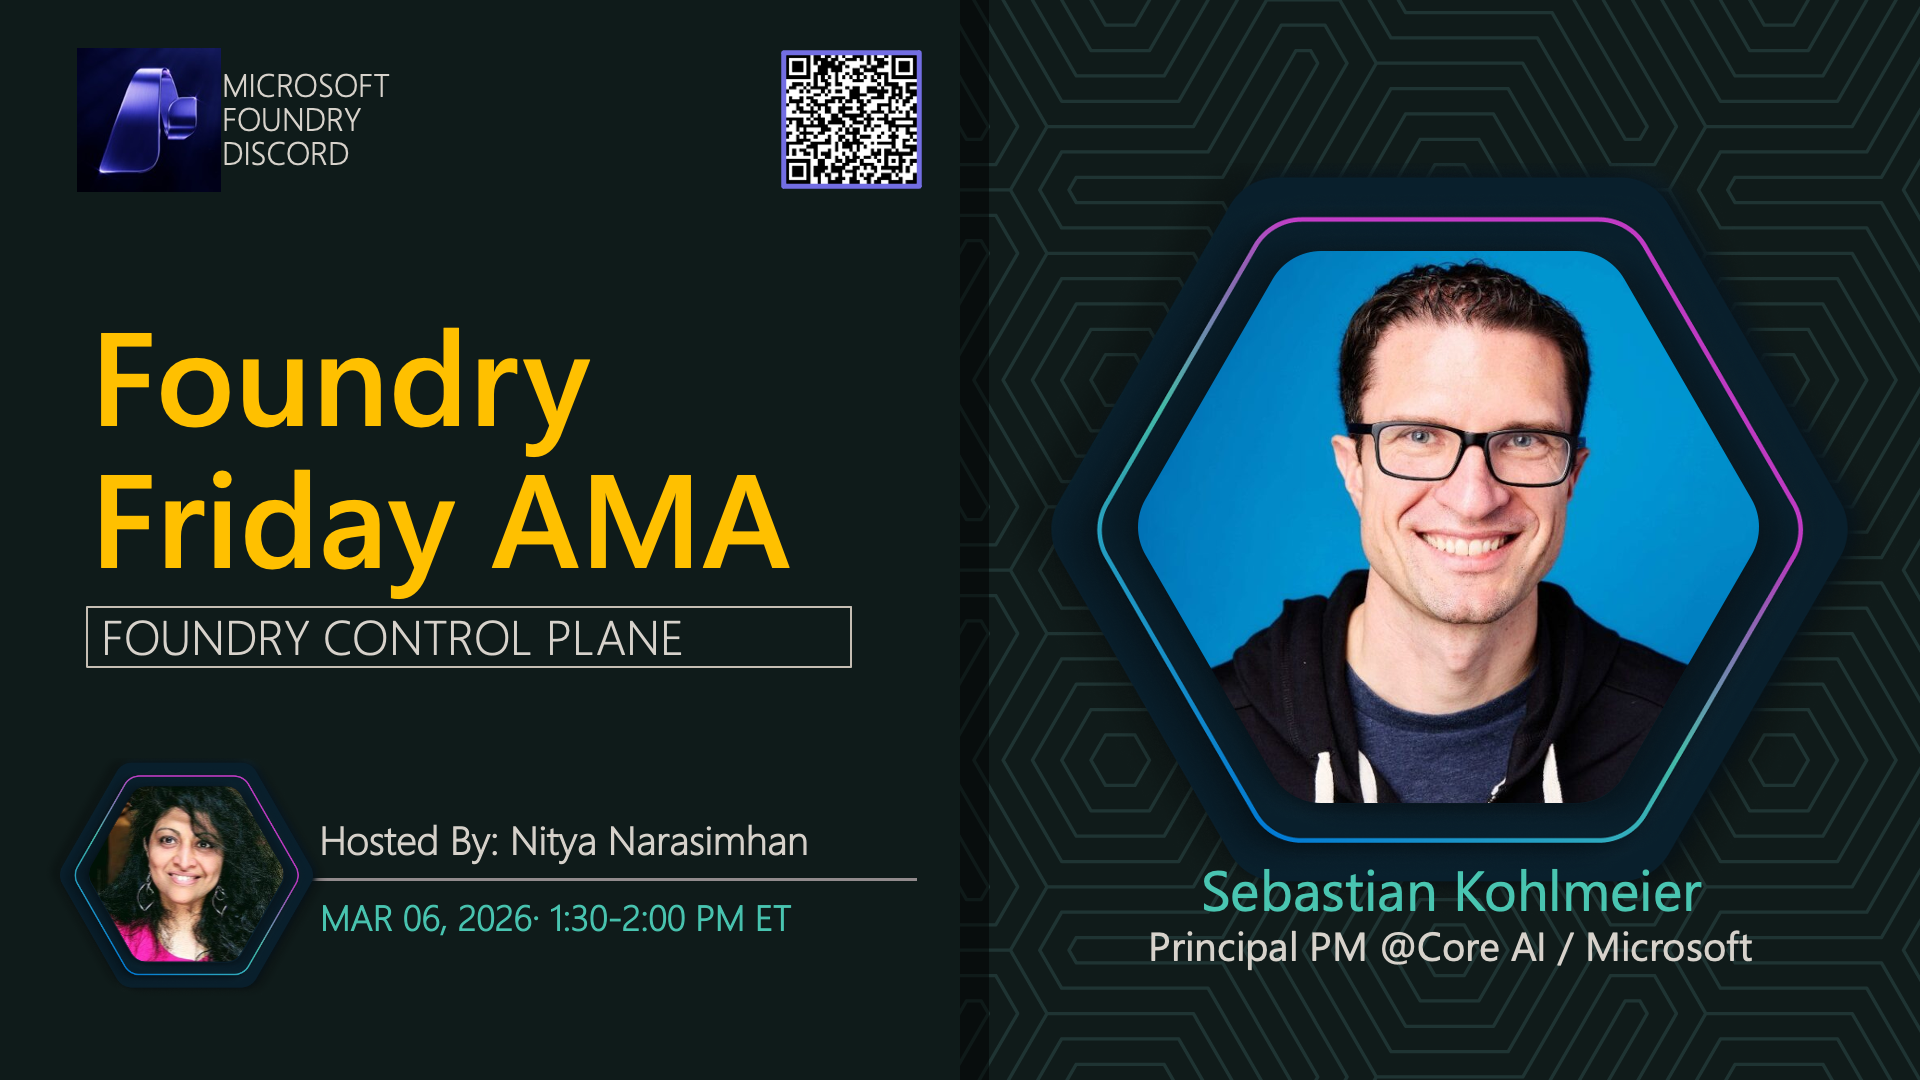
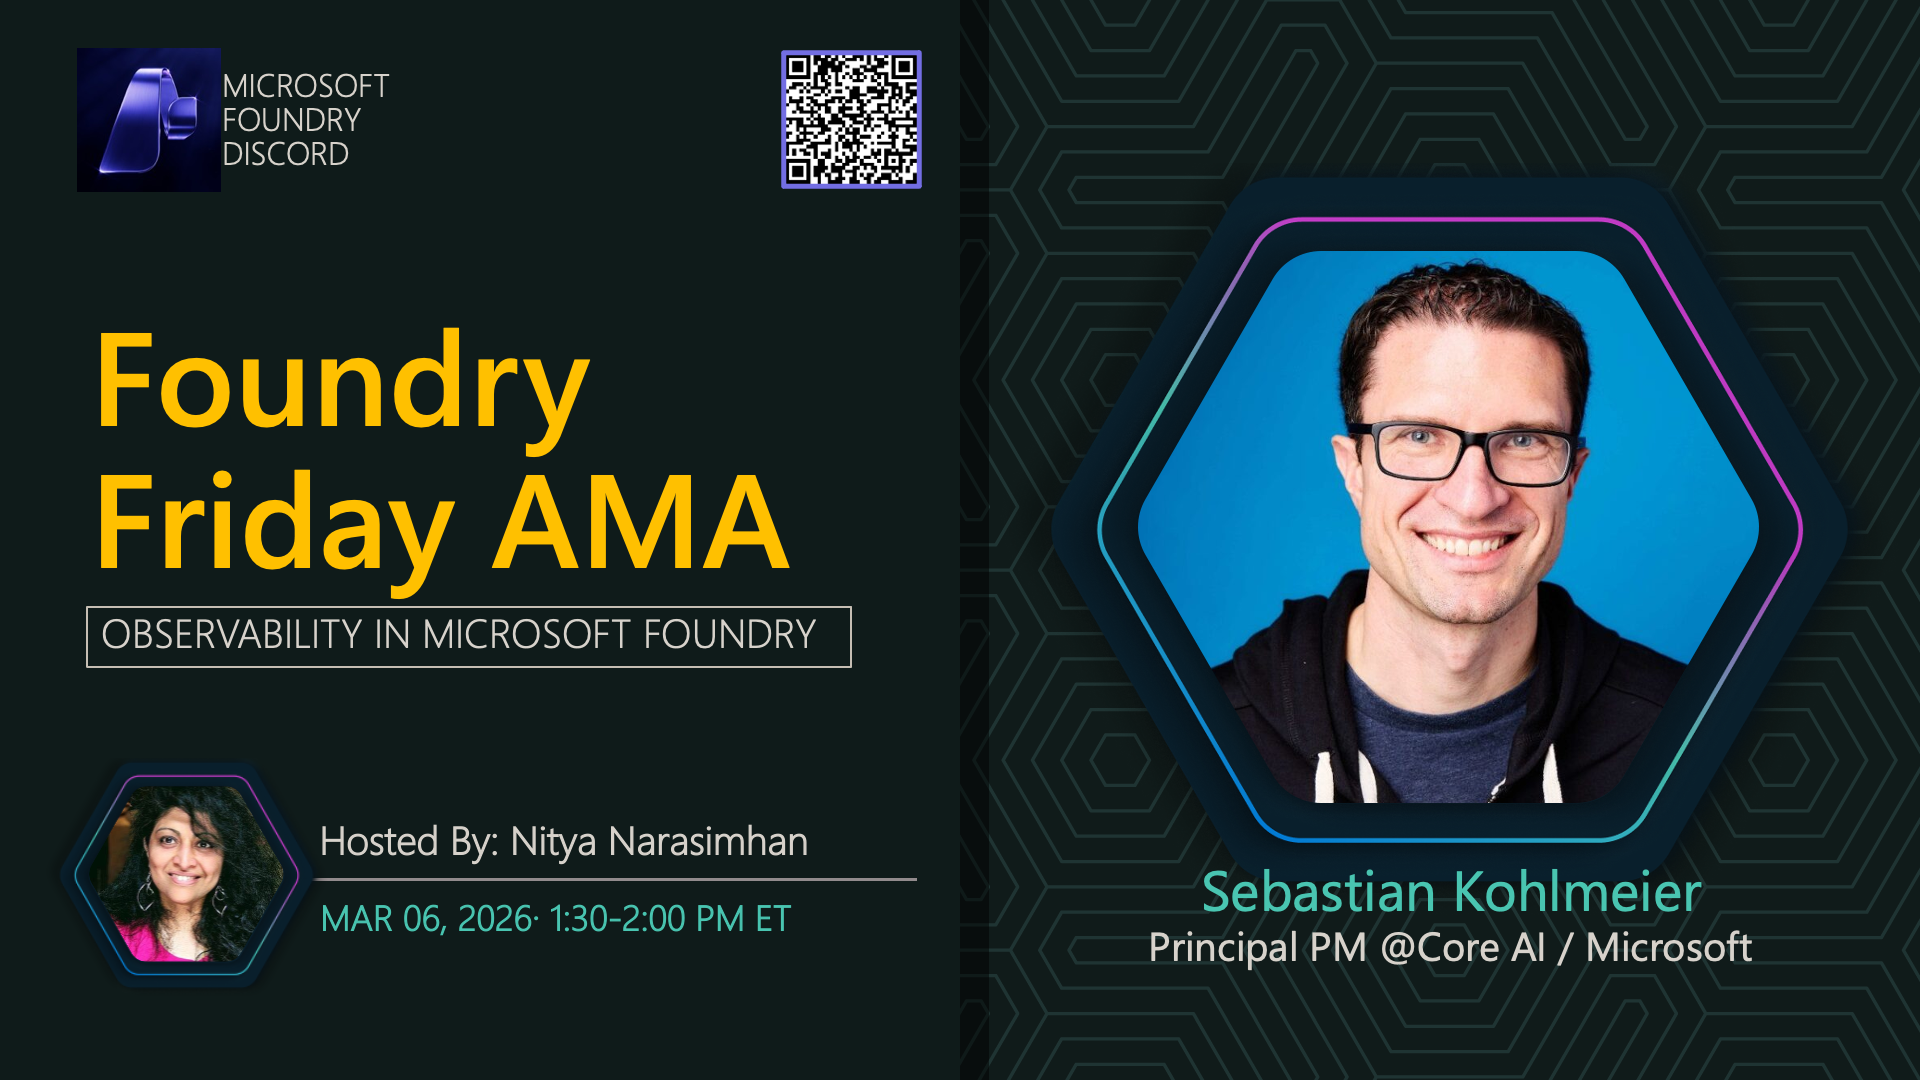
update Mar 2

Changed region(s): [[0.0625, 0.55, 0.4062, 0.6111], [0.6875, 0.825, 0.7188, 0.8556]]

diff --git a/README.md b/README.md
@@ -32,6 +32,16 @@ As an AI native engineer, your journey starts with model choice. But with 10K+ m
 
 In Season 3, we are putting the tech spotlight on [Microsoft Foundry](https://ai.azure.com) and bringing in product group leads and subject matter experts to talk about the unified platform and tech stack that powers the app and agent factory! Season 3 is currently planned for a 16-episode arc going from Dec 2025 to Apr 2026. **In addition to tech spotlights, watch for new customer stories and new segments including Study Corner and Partner Spotlights**.
 
+### Partner Spotlights
+
+In our featured Partner Spotlights, we put the focus on key model families with featured speakers from our industry partners.
+
+🌟 | Feb 23, 2026 at 1:30pm ET ․ [**REGISTER TO ATTEND**](https://developer.microsoft.com/en-us/reactor/events/26811/) ․ Join us as we go **Hands-on with Claude in Microsoft Foundry** with our featured spotlight on Anthropic.
+
+![Anthropic](./docs/assets/model-mondays/S3-E10-anthropic.png)
+
+
+### Tech Spotlights
 
 ![Lineup](./docs/assets/misc/S3-Banner-Linueup.png)
 

diff --git a/docs/foundry-fridays/2026-03-06-s03-e11.md b/docs/foundry-fridays/2026-03-06-s03-e11.md
@@ -1,18 +1,17 @@
 ![Banner](../assets/foundry-fridays/S3-E11-AMA.png)
 
-**Title:** Foundry Control Plane AMA
+**Title:** Observability in Microsoft Foundry
 
-**Speakers:**
-- Host TBA
+**Speaker:** Sebastien Kohlmeier
 
-**Description:** Learn about the Foundry Control Plane and how to manage AI resources at scale.
+**Description:** Building trustworthy AI agents requires an end-to-end observability capability that lets us trace, monitor, and evaluate, agentic task execution at enterprise scale. Join us as we talk to Sebastian Kohlmeier about Observability capabilities in Microsoft Foundry.
 
 ## Topics Discussed
-- Control plane architecture
-- Resource management
-- Governance and compliance
-- Multi-region deployment
-- Cost optimization
+- Microsoft Foundry
+- Agentic Evaluations
+- Tracing & Telemetry
+- Monitoring & Insights
+- E2E Observability
 
 **Links:**
-- [Registration](https://aka.ms/model-mondays/discord)
+- [Join Discord](https://aka.ms/model-mondays/discord) for AMAs every Friday at 1:30pm ET on the #community-stage.
